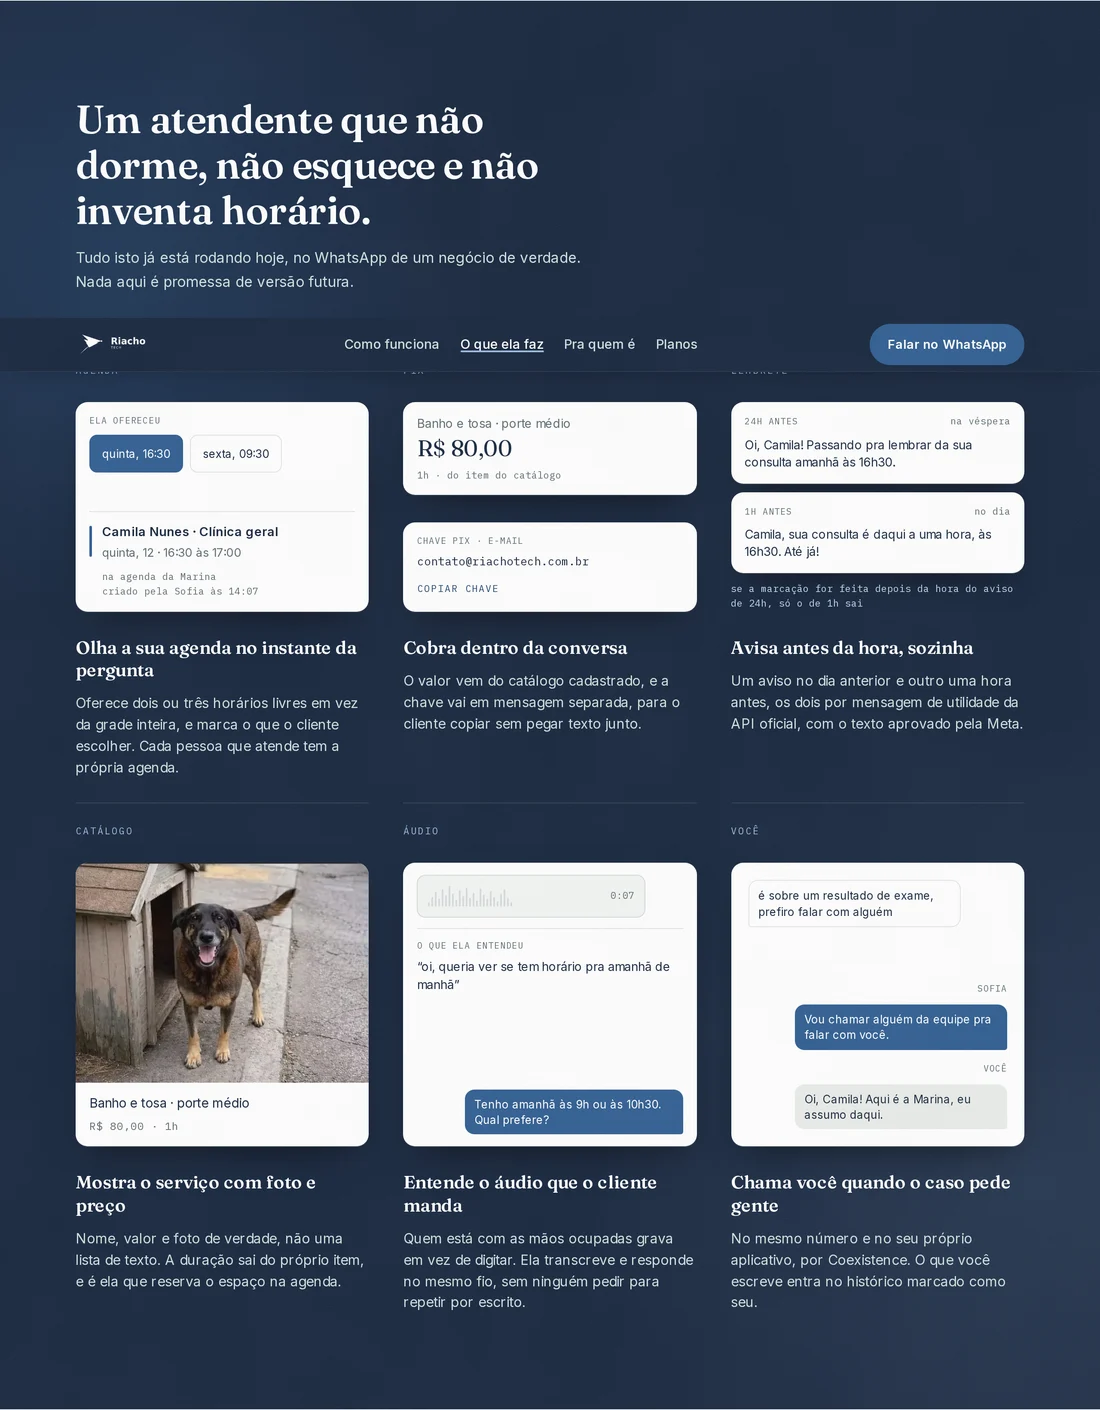
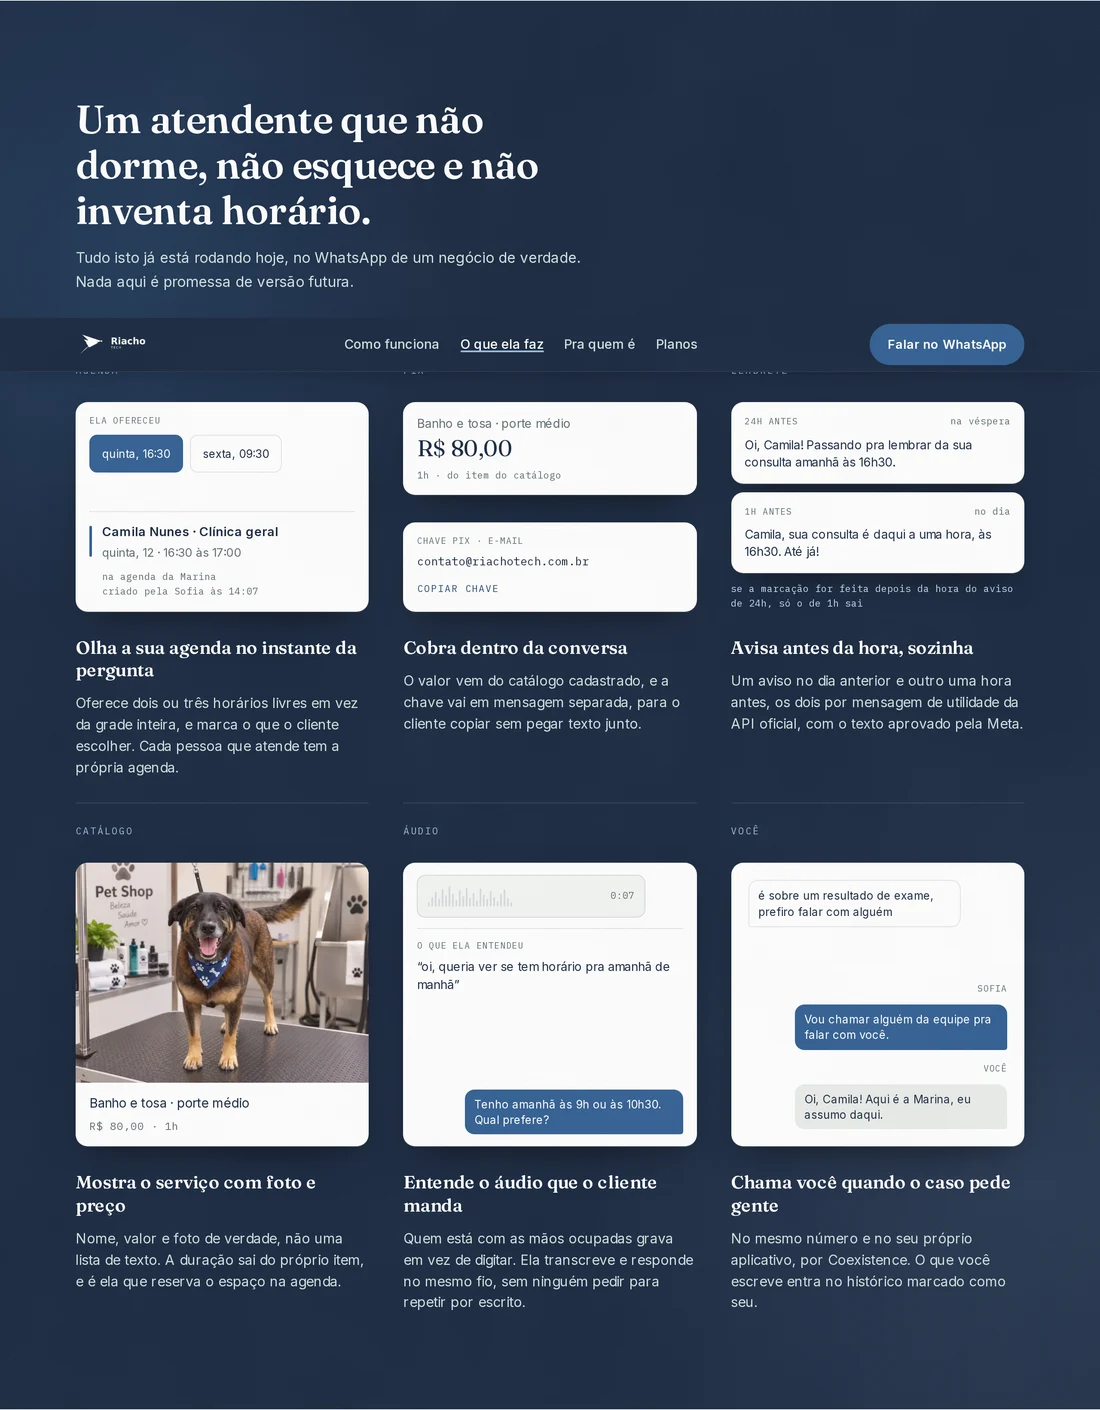
catalogo: a foto do cachorro, e as prints de celular deixam de ser tiras
## A foto

Nova, dada pelo fundador: cao de porte medio escovado, com bandana, na mesa de
tosa de um pet shop. Ela conserta uma contradicao que eu tinha apontado e que
so' apareceu quando a foto cresceu: em 44px a anterior era um icone e nao dizia
nada; ocupando a peca inteira, ela mostrava um cachorro de rua embaixo do texto
"Banho e tosa · porte medio". A foto contradizia a legenda na propria tela.

640x480 em webp, 30 KB, a partir de um original de 1448x1086 que ja' vinha em
4:3 — so' reducao, sem corte. Continua placeholder DECLARADO: entra foto de
cliente quando houver catalogo de cliente no ar.

## As prints de celular

"as prints estao muito esquisitas, digo as que mostram o mobile" (fundador), e
ele estava certo: eu tinha capturado a SECAO inteira em 390px de largura, entao
uma delas saiu com 390x2195 — uma tira de proporcao 1:5,6 dentro de uma celula
de tabela. Nao parecia celular; parecia um recorte espremido.

Agora sao TELAS de celular, 390x844 cada, que e' a proporcao de um aparelho. Sao
tres em vez de duas: a primeira tela, o comeco de "o que ela faz" e a lista de
ramos.

Duas delas cortavam no meio de uma frase na primeira tentativa. O enquadramento
passou a ser ancorado: a pagina rola ate' o elemento escolhido encostar 12px
abaixo da barra de topo, entao nada comeca cortado. Antes eu somava um
deslocamento em pixels chutado a partir do topo da secao.

As quatro prints de 1280 foram refeitas junto, porque a foto do catalogo aparece
em "o que ela faz".
[…]

Changed region(s): [[0.0618, 0.5929, 0.34, 0.7801]]

diff --git a/README.md b/README.md
@@ -40,14 +40,15 @@ venda. O rastro azul atravessa os três passos um de cada vez.
 
 ![Seção "como funciona" em 1280 px](docs/imagens/home-1280-como-funciona.webp)
 
-A mesma página em 390 px, e a seção que troca o exemplo por ramo (clínica,
-escritório, barbearia, petshop, oficina) sem recarregar nada. As cinco conversas
-fecham o agendamento — antes elas paravam na pergunta, e mostravam a Sofia
-oferecendo sem nunca marcar:
+Em 390 px, três telas de celular — a primeira, o começo de "o que ela faz" e a
+lista de ramos. A lista troca o exemplo por ramo (clínica, escritório,
+barbearia, petshop, oficina) sem recarregar nada, e as cinco conversas fecham o
+agendamento: antes elas paravam na pergunta, e mostravam a Sofia oferecendo sem
+nunca marcar.
 
-| 390 px, a primeira tela | 390 px, "pra quem é" |
-|---|---|
-| ![Primeira tela em 390 px](docs/imagens/home-390-dobra.webp) | ![Seção por ramo em 390 px](docs/imagens/home-390-segmentos.webp) |
+| a primeira tela | "o que ela faz" | "pra quem é" |
+|---|---|---|
+| ![Primeira tela em 390 px](docs/imagens/home-390-dobra.webp) | ![Seção "o que ela faz" em 390 px](docs/imagens/home-390-recursos.webp) | ![Seção por ramo em 390 px](docs/imagens/home-390-segmentos.webp) |
 
 E a seção de planos, que é onde o site precisa ser mais claro:
 
